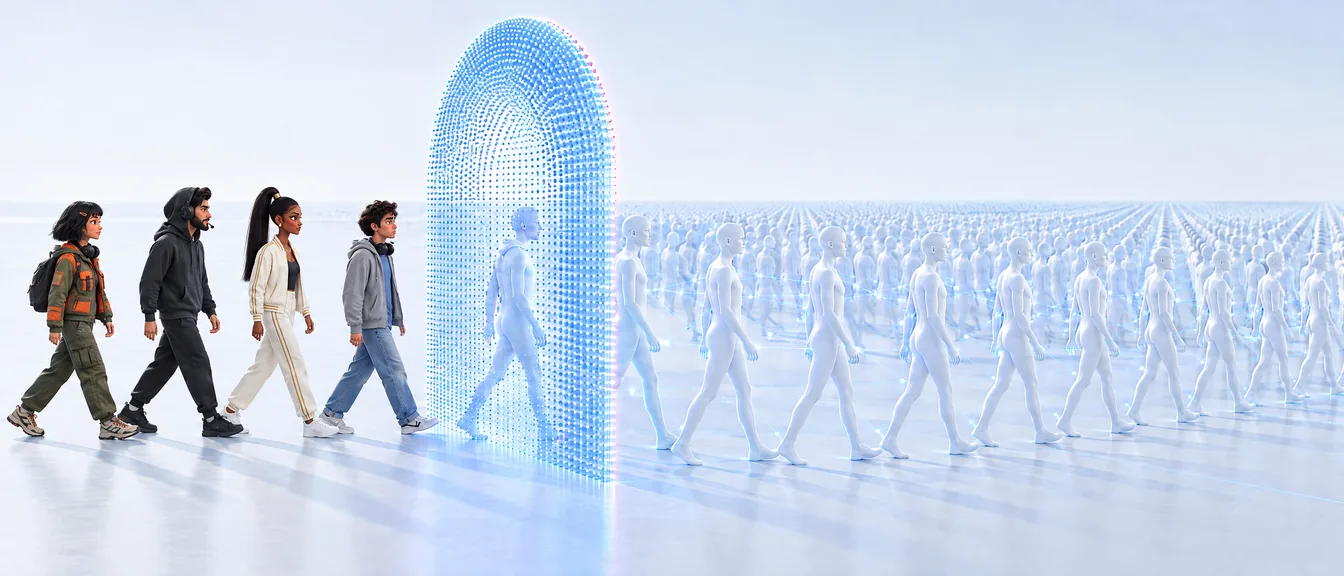
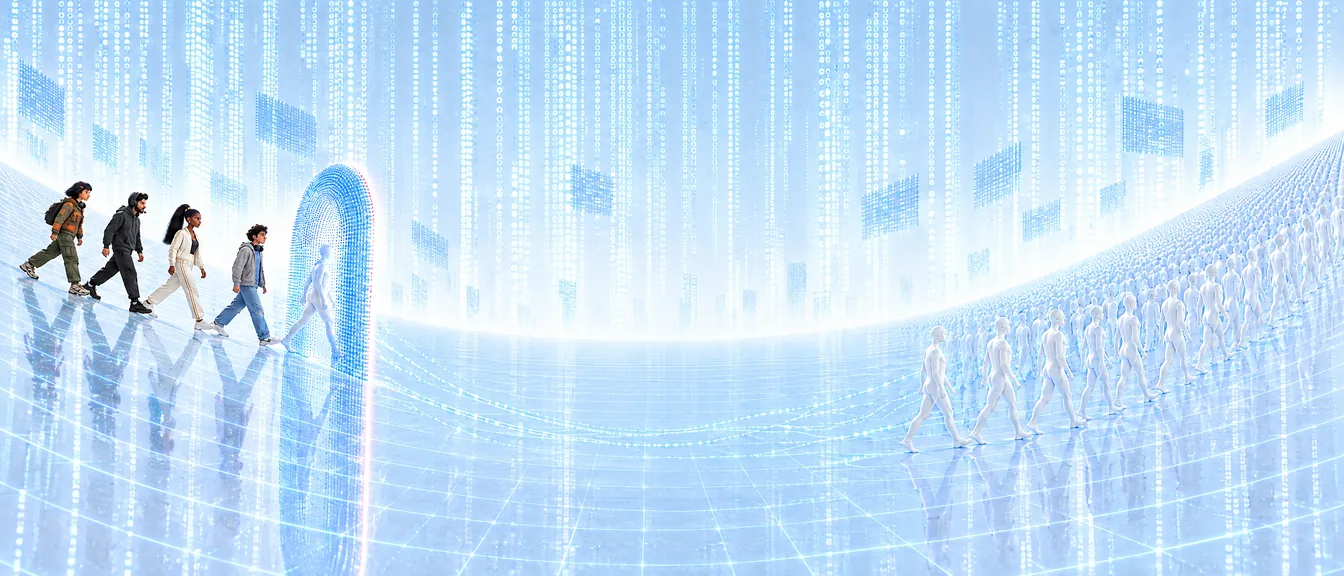
Footer copy line: H3, the curved digital-rain panorama; the mark in the valley, the wordmark on its floor, labels moved to the new scene

diff --git a/src/components/website/CopyLine.tsx b/src/components/website/CopyLine.tsx
@@ -1,18 +1,21 @@
-// The footer's landscape (Footer.tsx), between its links and its tail: the copy line. Our four players walk
-// in from the left, pass through the scanning arch and come out as their AI copies, which multiply into
-// rows to the horizon (public/footer/copy-line.webp, generated with no text in it). Over it, a few spec
-// labels in code, each on a leader line to what it names, so the words stay crisp and editable; they are
-// the page's own facts. The image fades in at its top and out at its foot, and the huge wordmark stands in
-// front of that foot, cropped by the tail's hairline, its colour split at its two ends only (.foot-word in
-// globals.css). On a phone the image crops to the arch and the labels step aside.
+// The footer's landscape (Footer.tsx), between its links and its tail: the copy line, inside the machine. A
+// curved panorama of blue digital rain over a glossy grid floor, higher at the edges and dipping in the
+// middle: on the left our four players walk down into the scanning arch, on the right their AI copies
+// climb in rows to the edge (public/footer/copy-line.webp, generated with no text in it). The open valley
+// in the middle holds the brand: the SixLabs mark standing on its horizon in a soft glow, and the huge
+// wordmark across the floor below it, cropped by the tail's hairline, its colour split at its two ends
+// only (.foot-word in globals.css). Over it, a few spec labels in code, each on a leader line to what it
+// names, so the words stay crisp and editable; they are the page's own facts. The image fades in at its
+// top and out at its foot. On a phone it crops to the valley and the labels step aside.
+import { SixLabsSolid } from "./brand-marks";
 
 const LABELS: { text: string; x: number; y: number; strong?: boolean }[] = [
   // x, y: where the leader line lands, in % of the image
-  { text: "Real players", x: 16, y: 30 },
-  { text: "Copied from what they do", x: 45.5, y: 22 },
-  { text: "1,000,000+ player models", x: 72, y: 36, strong: true },
-  { text: "Explores every menu", x: 58, y: 40 },
-  { text: "Pays when the value is clear", x: 86, y: 41 },
+  { text: "Real players", x: 10.3, y: 32 },
+  { text: "Copied from what they do", x: 25.7, y: 28 },
+  { text: "Explores every menu", x: 69.7, y: 56 },
+  { text: "Pays when the value is clear", x: 84, y: 52 },
+  { text: "1,000,000+ player models", x: 93, y: 38, strong: true },
 ];
 
 const COPY = "block whitespace-nowrap";
@@ -26,47 +29,55 @@ export const Word = ({ plain }: { plain?: boolean }) => (
 
 export function CopyLine() {
   return (
-    <div className="relative mt-12 md:mt-20">
-      <div className="relative aspect-[2688/1152] w-full overflow-hidden [mask-image:linear-gradient(to_bottom,transparent,#000_8%,#000_72%,transparent)] max-md:aspect-[4/3]">
-        {/* eslint-disable-next-line @next/next/no-img-element -- a static, pre-sized image with its own srcset */}
-        <img
-          src="/footer/copy-line.webp"
-          srcSet="/footer/copy-line-1344.webp 1344w, /footer/copy-line.webp 2688w"
-          sizes="100vw"
-          width={2688}
-          height={1152}
-          loading="lazy"
-          decoding="async"
-          alt="Four players walk through a scanning arch and come out as rows of AI copies that stretch to the horizon."
-          className="absolute inset-0 h-full w-full object-cover object-[38%_0%]"
-        />
-        {LABELS.map(({ text, x, y, strong }) => (
-          <div
-            key={text}
-            className="absolute flex -translate-x-1/2 -translate-y-full flex-col items-center max-lg:hidden"
-            style={{ left: `${x}%`, top: `${y}%` }}
-          >
-            <span
-              className={
-                "flex items-center gap-1.5 whitespace-nowrap rounded-full border px-3 py-1 font-sans text-[12px] tracking-[-0.01em] " +
-                (strong
-                  ? "border-transparent bg-[#0a152d] text-white"
-                  : "border-slate-200/80 bg-white/85 text-[#0a1b33]")
-              }
-            >
-              <i className="h-1.5 w-1.5 rounded-full bg-accent" />
-              {text}
-            </span>
-            <span className="h-7 w-px bg-[#0a1b33]/30" />
-            <span className="-mb-[3.5px] h-[7px] w-[7px] rounded-full border-2 border-white bg-accent" />
-          </div>
-        ))}
-      </div>
+    <div className="relative mt-12 aspect-[2688/1152] w-full overflow-hidden max-md:aspect-[4/3] md:mt-20">
+      {/* eslint-disable-next-line @next/next/no-img-element -- a static, pre-sized image with its own srcset */}
+      <img
+        src="/footer/copy-line.webp?v=2"
+        srcSet="/footer/copy-line-1344.webp?v=2 1344w, /footer/copy-line.webp?v=2 2688w"
+        sizes="100vw"
+        width={2688}
+        height={1152}
+        loading="lazy"
+        decoding="async"
+        alt="Four players walk down into a scanning arch inside a world of blue digital rain, and their AI copies climb away in rows on the other side."
+        className="absolute inset-0 h-full w-full object-cover [mask-image:linear-gradient(to_bottom,transparent,#000_8%,#000_80%,transparent)]"
+      />
 
-      {/* the wordmark, over the image's faded foot */}
+      {/* the mark, standing on the valley's horizon; the glow on its own box, clear of any mask */}
       <div
         aria-hidden
-        className="relative -mt-[0.62em] font-display text-[clamp(84px,19vw,300px)]"
+        className="absolute bottom-[42%] left-1/2 aspect-[95.04/105.54] h-[30%] -translate-x-1/2 drop-shadow-[0_0_28px_rgba(26,109,255,0.45)]"
+      >
+        <div className="absolute -inset-[35%] rounded-full bg-[radial-gradient(closest-side,rgba(255,255,255,0.9),rgba(255,255,255,0))]" />
+        <SixLabsSolid className="relative block h-full w-full text-accent" />
+      </div>
+
+      {LABELS.map(({ text, x, y, strong }) => (
+        <div
+          key={text}
+          className="absolute flex -translate-x-1/2 -translate-y-full flex-col items-center max-lg:hidden"
+          style={{ left: `${x}%`, top: `${y}%` }}
+        >
+          <span
+            className={
+              "flex items-center gap-1.5 whitespace-nowrap rounded-full border px-3 py-1 font-sans text-[12px] tracking-[-0.01em] " +
+              (strong
+                ? "border-transparent bg-[#0a152d] text-white"
+                : "border-slate-200/80 bg-white/85 text-[#0a1b33]")
+            }
+          >
+            <i className="h-1.5 w-1.5 rounded-full bg-accent" />
+            {text}
+          </span>
+          <span className="h-7 w-px bg-[#0a1b33]/30" />
+          <span className="-mb-[3.5px] h-[7px] w-[7px] rounded-full border-2 border-white bg-accent" />
+        </div>
+      ))}
+
+      {/* the wordmark across the valley's floor, cropped by the tail's hairline */}
+      <div
+        aria-hidden
+        className="absolute inset-x-0 bottom-0 font-display text-[clamp(84px,19vw,300px)]"
       >
         <span className="relative block h-[0.9em] overflow-hidden text-center">
           <span className="foot-word font-semibold tracking-[-0.055em] text-[#0a1b33]">

diff --git a/src/components/website/brand-marks.tsx b/src/components/website/brand-marks.tsx
@@ -60,3 +60,21 @@ export function SixLabsMark({ className }: { className?: string }) {
     </svg>
   );
 }
+
+// The SixLabs mark filled, as the logo itself (public/brand/sixlabs-mark.svg) but in currentColor: the
+// footer's mark standing in the copy line's valley (CopyLine.tsx).
+export function SixLabsSolid({ className }: { className?: string }) {
+  return (
+    <svg
+      viewBox="18 12.99 95.04 105.54"
+      fill="currentColor"
+      className={className}
+      aria-hidden
+    >
+      <circle cx="65.52" cy="65.76" r="15.41" />
+      {ARCS.map((d, k) => (
+        <path key={k} d={d} />
+      ))}
+    </svg>
+  );
+}
